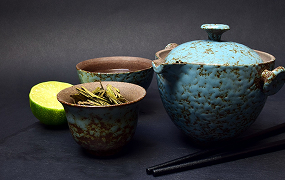
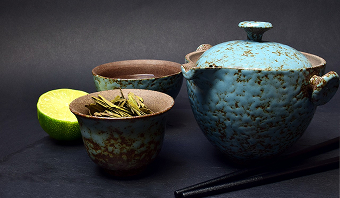
changeв slider in works scss

diff --git a/index.html b/index.html
@@ -5,7 +5,7 @@
     <meta name="viewport" content="width=device-width, initial-scale=1.0" />
     <title>Ceramic soul</title>
     <!--<link rel="stylesheet" href="/src/css/style.css" />-->
-    <link rel="icon" type="image/x-icon" href="favicon.ico" />
+    <link rel="icon" type="image/x-icon" href="/favicon.ico" />
     <link rel="preconnect" href="https://fonts.googleapis.com" />
     <link rel="preconnect" href="https://fonts.gstatic.com" crossorigin />
     <link
@@ -160,16 +160,16 @@
                 placeholder="Question"
                 required
               ></textarea>
-              <label class="touch__label touch__check-block" for="checkbox">
+              <label class="touch__label touch__check-block" for="checkbox-touch">
                 <input
                   required
                   class="touch__check-box"
                   type="checkbox"
-                  id="checkbox"
+                  id="checkbox-touch"
                 />
                 I agree with the <a href="#">terms</a>
               </label>
-              <button class="btn-send touch__btn" type="button">
+              <button class="btn-send touch__btn" type="submit">
                 send request
               </button>
             </form>
@@ -182,8 +182,6 @@
       <div class="container">
         <h2 class="title-h2 title-h2-works">check out our works</h2>
         <div class="works__wrapper">
-          <button class="icon-left-open works__slider-nav"></button>
-          <button class="icon-right-open works__slider-nav"></button>
           <!-- Slider main container -->
           <div class="swiper works__slider">
             <!-- Additional required wrapper -->
@@ -203,8 +201,9 @@
               </div>
             </div>
             <div class="swiper-pagination"></div>
-            <div class="swiper-scrollbar"></div>
           </div>
+           <button class="icon-left-open works__slider-nav" type="button"></button>
+           <button class="icon-right-open works__slider-nav" type="button"></button>
         </div>
       </div>
     </section>
@@ -223,18 +222,19 @@
               placeholder="Enter your e-mail"
               required
             />
-            <label class="touch__label touch__check-block" for="checkbox">
+            <label class="touch__label touch__check-block" for="checkbox-footer">
                 <input
                   required
                   class="touch__check-box"
                   type="checkbox"
-                  id="checkbox"
+                  id="checkbox-footer"
                 />
                 I agree with the <a href="#">terms</a>
               </label>
-            <button class="btn-send footer__btn" type="button">
-              submite
+            <button class="btn-send footer__btn" type="submit">
+              submit
             </button>
+          </form>
         </div>
         <div class="footer__links">
           <div class="footer__links__block">

diff --git a/src/sass/blocks/works.scss b/src/sass/blocks/works.scss
@@ -1,16 +1,101 @@
-// Works Block Styles
-// This section defines the styles for the works block and its items.
-
+@use "../base/variables.scss" as *;
 .works {
+  padding-top: 60px;
   display: grid;
   grid-template-columns: repeat(auto-fit, minmax(240px, 1fr));
   gap: 1.5rem;
-  padding: 2rem;
+  padding-bottom: 60px;
+  &__slider {
+    margin-top: 40px;
+    padding-bottom: 30px;
+  }
+  .swiper-slide img {
+    width: 100%;
+  }
+  .works__slider-nav {
+    display: none;
+  }
+  .swiper-pagination {
+    bottom: 0px;
+  }
+  .swiper-pagination-bullet {
+    width: 10px;
+    height: 10px;
+    background-color: $dark;
+    border-radius: 0;
+    opacity: 1;
+    -webkit-tap-highlight-color: transparent;
+  }
+  .swiper-pagination-bullet-active {
+    background-color: $ceramic;
+  }
+  .works__item {
+    background: #fff;
+    border-radius: 8px;
+    box-shadow: 0 2px 8px rgba(0, 0, 0, 0.08);
+    overflow: hidden;
+  }
 }
-
-.works__item {
-  background: #fff;
-  border-radius: 8px;
-  box-shadow: 0 2px 8px rgba(0, 0, 0, 0.08);
-  overflow: hidden;
+@media screen and (min-width: 768px) {
+  .works {
+    .swiper-slide img {
+      width: 400px;
+      margin: 0 auto;
+      display: block;
+    }
+    &__slider {
+      margin-top: 45px;
+    }
+  }
+}
+@media screen and (min-width: 1200px) {
+  .works {
+    .swiper-slide img {
+      width: 100%;
+      margin: 0;
+    }
+    &__wrapper {
+      position: relative;
+    }
+    &__slider {
+      margin: 80px 40px 0px 40px;
+      padding-bottom: 40px;
+    }
+    .swiper-pagination {
+      bottom: 0px;
+    }
+    .works__slider-nav {
+      position: absolute;
+      top: 50%;
+      transform: translateY(-50%);
+      display: block;
+      font-size: 21px;
+      background-color: transparent;
+      border: none;
+      padding: 0;
+      &::before {
+        width: auto;
+        margin: 0;
+      }
+    }
+    .icon-left-open {
+      left: 15px;
+    }
+    .icon-right-open {
+      right: 15px;
+    }
+  }
+}
+@media screen and (min-width: 1920px) {
+  .works {
+    &__slider {
+      margin: 80px 85px 0px 85px;
+    }
+    .icon-left-open {
+      left: 40px;
+    }
+    .icon-right-open {
+      right: 40px;
+    }
+  }
 }

diff --git a/catalog.html b/catalog.html
@@ -37,9 +37,9 @@
                         <span></span>
                     </div>
                     <div class="header__menu-nav">
-                        <a href="#" class="header__logo">
+                       <div class="header__logo"><a href="#">
                             <img src="/src/logo/logo.png" alt="logo" />
-                        </a>
+                        </a></div> 
                         <div class="header__icons">
                             <a href="#" aria-label="search icon">
                                 <span class="icon-search"></span>
@@ -89,7 +89,7 @@
                 />
                 I agree with the <a href="#">terms</a>
               </label>
-            <button class="btn-send footer__btn" type="button">
+            <button class="btn-send footer__btn" type="submit">
               submite
             </button>
         </div>

diff --git a/src/js/main.js b/src/js/main.js
@@ -8,7 +8,6 @@ import { Navigation, Pagination, Scrollbar } from "swiper/modules";
 import "swiper/css";
 import "swiper/css/navigation";
 import "swiper/css/pagination";
-import "swiper/css/scrollbar";
 import "../sass/style.scss";
 // init Swiper:
 
@@ -52,11 +51,7 @@ try {
       nextEl: ".icon-right-open",
       prevEl: ".icon-left-open",
     },
-    scrollbar: {
-      el: ".swiper-scrollbar",
-      draggable: true,
-    },
-    modules: [Navigation, Pagination, Scrollbar],
+    modules: [Navigation, Pagination],
   });
 } catch (e) {
   console.error("Swiper error:", e);

diff --git a/src/sass/blocks/header.scss b/src/sass/blocks/header.scss
@@ -8,6 +8,7 @@
   &__logo {
     width: 100px;
     height: 100px;
+    margin: 0 auto;
   }
   &__menu-nav {
     display: flex;
@@ -18,7 +19,6 @@
   &__icons {
     display: flex;
     align-items: flex-start;
-    gap: 15px;
     a {
       display: block;
       color: $dark;
@@ -27,6 +27,7 @@
         width: 20px;
         height: 20px;
         font-size: 18px;
+        margin-right: 13px;
       }
     }
   }
